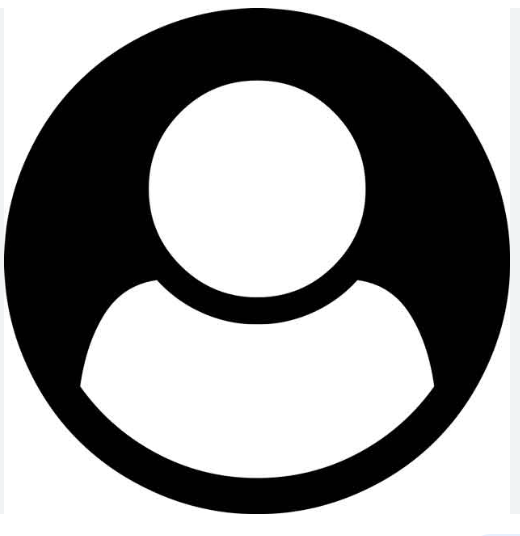
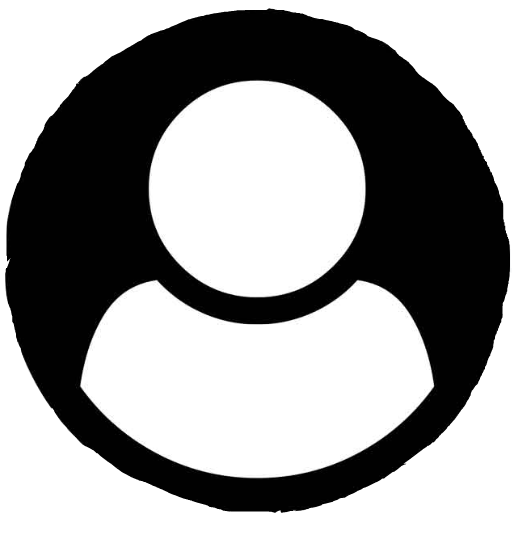
numeros validados

diff --git a/proyecto/web.css b/proyecto/web.css
@@ -7,9 +7,10 @@ header{
     padding:10px;
     padding-bottom: 0px;
     margin-top: 0px;
-    background-color: aquamarine;
+    background:linear-gradient(rgb(70%, 0%, 30%), rgb(64, 0, 255),rgb(86, 7, 102));
     border-style: solid;
-    border-color: blue;
+    border-color: black;
+    border-radius:6px;
 }
 ul{
     list-style-type: none;  
@@ -23,12 +24,13 @@ li{
 }
 .enlaces{
     width:100%;
+    padding-bottom: 0px;
 }
 .enlaces img{
     padding: 0px;
     margin: 0px;
-    width:20px;
-    height: 20px;;
+    width:30px;
+    height:30px;
 }
 .enlaces li{
     margin: 2px;
@@ -36,13 +38,22 @@ li{
     margin-left: 30px;
 }
 #login{
-    margin-left:70%;
+    margin-left:63%;
+    padding:0;
+    margin-bottom:-8px;
+    margin-top:-7px;
+    height: 20%;
+    border: solid;
+    border-color: rgb(147, 42, 165);
+    border-radius: 6px;
+    display: flex;
+    background: linear-gradient(rgb(70%, 0%, 30%),rgb(86, 7, 102));
 }
 #iframe{
     height:80vh;
     width:70%;
     margin-left: 12%;
-    background-color:white;
+    background: white;
 }
 .Funcionalidades{
     width:100%;
@@ -51,10 +62,13 @@ li{
 }
 .Funcionalidades a{
     border: solid;
-    background: #ececf6;
-    border-color: blue;
+    background: rgb(64, 0, 255);
+    border-color: rgb(23, 23, 99);
+    border-radius: 7px;
+    padding-top:10px;
+    padding-bottom:10px;
     text-decoration: none;
-    color: black;
+    color: white;  
     display: inline;
 }
 #paradas{
@@ -78,14 +92,20 @@ li{
     height: 40%;
     margin-bottom:1%;
     margin-left:8%;
+    padding-right: 10px;
 }
 #session{
     border:solid;
-    border-color: blue;
-    background-color: red;
+    border-color: rgb(5, 0, 11);
     padding:0;
-    color:blue;
+    color:white;
     text-decoration: none;
+    background: linear-gradient(rgb(57, 0, 179),rgb(7, 102, 9));
+    padding-top:10px;
+    padding-left:10px;
+    padding-right:7px;
+    margin-top:10px;
+    margin-bottom:10px;
 }
 #usuarioregistrado{
     border:solid;

diff --git a/proyecto/paradasalrededor.html b/proyecto/paradasalrededor.html
@@ -7,17 +7,17 @@
     <title>Paradas Alrededor</title>
     <link rel="stylesheet" href="paradasalrededor.css" > 
 </head>
-<body>
+<body style="background: linear-gradient(rgb(7, 89, 220),rgb(22, 5, 120));">
     <form action="paradasalrededor.php" method="get">
         <h3>PARADAS ALREDEDOR</h3>
-        SELECCIONA UNA OPCIÓN Y RELLENA SUS DATOS CORRESPONDIENTES.<br><br>
+        <p style="margin:0;margin-left:10%; color:rgb(255, 251, 0)">SELECCIONA UNA OPCIÓN Y RELLENA SUS DATOS CORRESPONDIENTES.</p><br><br>
         <div id="rellenardatos">
             OPCION 1:<br>
             Para conocer las paradas alrededor de una parada determinada, indica la parada y los metros alrededor de esta misma.
             <p id="informacion"> Rellene los siguientes datos:</p>
             <div id="datos">
-                Nº de la parada: <input type="number" name="parada"><br><br>
-                Metros alrededor de la parada: <input type="number" name="metros"><br><br>
+                Nº de la parada: <input type="number" name="parada" min=1><br><br>
+                Metros alrededor de la parada: <input type="number" name="metros" min=1><br><br>
             </div>
             OPCION 2:<br>
             Para conocer las paradas alrededor de un punto geográfico, indica la longitud, latitud y radio.
@@ -25,9 +25,9 @@
             <div id="datos">
                 Longitud: <input name="longitud"><br><br>
                 Latitud: <input name="latitud"><br><br>
-                Metros alrededor del punto: <input type="number" name="radio"><br><br>
+                Metros alrededor del punto: <input type="number" name="radio" min=1><br><br>
             </div>
-            <input type="submit" value="Buscar" style="margin-left: 43%; margin-bottom: 2%; margin-top:8%">
+            <input type="submit" value="Buscar" style="margin-left: 43%; margin-bottom: 2%; margin-top:8%; background-color: rgb(255, 0, 0);">
         </div>
     </form>
 </body>

diff --git a/proyecto/lineainformacion.html b/proyecto/lineainformacion.html
@@ -4,10 +4,10 @@
     <meta charset="UTF-8">
     <meta http-equiv="X-UA-Compatible" content="IE=edge">
     <meta name="viewport" content="width=device-width, initial-scale=1.0">
-    <title>Paradas Alrededor</title>
+    <title>Linea informacion</title>
     <link rel="stylesheet" href="lineainformacion.css" > 
 </head>
-<body>
+<body style="background: linear-gradient(rgb(7, 89, 220),rgb(22, 5, 120));">
     <form action="lineainformacion.php" method="get">
         <h3>LÍNEA DE INFORMACIÓN</h3>
         SELECCIONA UNA OPCIÓN Y RELLENA SUS DATOS CORRESPONDIENTES.<br><br>
@@ -16,7 +16,7 @@
             información sobre una línea(detalle):
             <p id="informacion"> Rellene los siguientes datos:</p>
             <div id="datos">
-                Nª de la línea: <input type="number" name="linea"><br><br>
+                Nª de la línea: <input type="number" name="linea" min=1><br><br>
                 Fecha: <input type="date" name="fechadetalle"><br><br>
             </div>
             OPCION 2:<br>
@@ -25,7 +25,7 @@
             <div id="datos">
                 Fecha: <input type="date" name="fechageneral"><br><br>
             </div>
-            <input type="submit" value="Buscar" style="margin-left: 43%; margin-bottom: 2%; margin-top:8%">
+            <input type="submit" value="Buscar" style="margin-left: 43%; margin-bottom: 2%; margin-top:8%;background-color: rgb(255, 0, 0);">
         </div>
         
     </form>

diff --git a/proyecto/linea.html b/proyecto/linea.html
@@ -4,10 +4,10 @@
     <meta charset="UTF-8">
     <meta http-equiv="X-UA-Compatible" content="IE=edge">
     <meta name="viewport" content="width=device-width, initial-scale=1.0">
-    <title>Paradas Alrededor</title>
+    <title>Linea</title>
     <link rel="stylesheet" href="linea.css" > 
 </head>
-<body>
+<body style="background: linear-gradient(rgb(7, 89, 220),rgb(22, 5, 120));">
     <form action="linea.php" method="get">
         <h3>RECORRIDO DE MI LÍNEA</h3>
         <div id="rellenardatos">
@@ -240,7 +240,7 @@
                 <option value="457" data-alias="T62" data-from="PLAZA CASTILLA" data-to="CHAMARTIN">T62 - PLAZA CASTILLA-CHAMARTIN</option>
                 <option value="099" data-alias="U" data-from="AVENIDA SENECA" data-to="PARANINFO">U - AVENIDA SENECA-PARANINFO</option>
             </select>
-            <input type="submit" value="Buscar" style="margin-left: 43%; margin-bottom: 2%; margin-top:8%">
+            <input type="submit" value="Buscar" style="margin-left: 43%; margin-bottom: 2%; margin-top:8%;background-color: rgb(255, 0, 0);">
         </div>
     </form>
 </body>

diff --git a/proyecto/calendario.html b/proyecto/calendario.html
@@ -4,10 +4,10 @@
     <meta charset="UTF-8">
     <meta http-equiv="X-UA-Compatible" content="IE=edge">
     <meta name="viewport" content="width=device-width, initial-scale=1.0">
-    <title>Paradas Alrededor</title>
+    <title>Calendario</title>
     <link rel="stylesheet" href="calendario.css" > 
 </head>
-<body>
+<body style="background: linear-gradient(rgb(7, 89, 220),rgb(22, 5, 120));">
     <form action="calendario.php" method="get">
         <h3>CALENDARIO</h3>
         <div id="rellenardatos">
@@ -17,7 +17,7 @@
                 Fecha Inicio: <input type="date" name="fechaini"><br><br>
                 Fecha Fin: <input type="date" name="fechafin"><br><br>
             </div>
-            <input type="submit" value="Buscar" style="margin-left: 43%; margin-bottom: 2%; margin-top:8%">
+            <input type="submit" value="Buscar" style="margin-left: 43%; margin-bottom: 2%; margin-top:8%;background-color: rgb(255, 0, 0);">
         </div>
     </form>
 </body>

diff --git a/proyecto/linea.css b/proyecto/linea.css
@@ -1,5 +1,7 @@
-h3{
-    border-bottom: solid red;
+*{
+    font-weight: bold;
+    color:rgb(97, 234, 47);
+}h3{
     width: 241px;
     margin-left: 300px;
 }

diff --git a/proyecto/lineainformacion.css b/proyecto/lineainformacion.css
@@ -1,5 +1,7 @@
-h3{
-    border-bottom: solid red;
+*{
+    font-weight: bold;
+    color:rgb(97, 234, 47);
+}h3{
     width: 240px;
     margin-left: 300px;
 }

diff --git a/proyecto/calendario.css b/proyecto/calendario.css
@@ -1,5 +1,8 @@
+*{
+    font-weight: bold;
+    color:rgb(97, 234, 47);
+}
 h3{
-    border-bottom: solid red;
     width: 130px;
     margin-left: 300px;
 }

diff --git a/proyecto/paradasalrededor.css b/proyecto/paradasalrededor.css
@@ -1,5 +1,8 @@
+*{
+    font-weight: bold;
+    color:rgb(97, 234, 47);
+}
 h3{
-    border-bottom: solid red;
     width: 215px;
     margin-left: 300px;
 }

diff --git a/proyecto/web.php b/proyecto/web.php
@@ -50,11 +50,11 @@
         </ul>
    </div>
     <header>
-        <img src="img/logo.png" width="100" height="100"></img>
+        <img src="img/icono.png" width="100" height="100"></img>
         <div class="Funcionalidades">
-            <a href="paradasalrededor.html" target="iframe" id="paradas">Paradas_Alrededor</a>
+            <a href="paradasalrededor.html" target="iframe" id="paradas">Paradas Alrededor</a>
             <a href="calendario.html" target="iframe" id="calendario">Calendario</a>
-            <a href="lineainformacion.html" target="iframe" id="linea">Informacion_De_Línea</a>
+            <a href="lineainformacion.html" target="iframe" id="linea">Informacion De Línea</a>
             <a href="linea.html" target="iframe" id="trayecto">Trayecto</a>
 
         </div>
